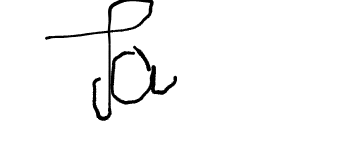
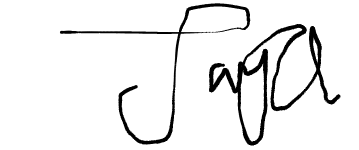
changes in remarks and update checklists

Changed region(s): [[0.1229, 0.0, 0.7067, 0.9867], [0.5838, 0.16, 0.9525, 0.9867]]

diff --git a/document/checklist/type/update_checklist.php b/document/checklist/type/update_checklist.php
@@ -81,6 +81,9 @@ $remarks = [];
 $client_name = $_POST['client_name'] ?? null;
 $client_signature = $_POST['client_signature'] ?? null;
 $checklist_no = $_POST['checklist_no'] ?? null;
+$recommendations = htmlspecialchars($_POST['recommendations'], ENT_QUOTES, 'UTF-8');
+
+
 
 
 if (!$client_name || !$client_signature || !$checklist_no) {
@@ -154,10 +157,10 @@ $checkQuery->store_result();
 
 if ($checkQuery->num_rows > 0) {
     // Update if a record exists
-    $stmt = $conn->prepare("UPDATE checklist_results SET result = ?, checklist_remark = ?, client_name = ?, client_signature = ? WHERE checklist_id = ?");
+    $stmt = $conn->prepare("UPDATE checklist_results SET result = ?, checklist_remark = ?, client_name = ?, client_signature = ?, recommendations = ? WHERE checklist_id = ?");
 } else {
     // Insert a new record if none exists
-    $stmt = $conn->prepare("INSERT INTO checklist_results (result, checklist_remark, client_name, client_signature, checklist_id) VALUES (?, ?, ?, ?, ?)");
+    $stmt = $conn->prepare("INSERT INTO checklist_results (result, checklist_remark, client_name, client_signature, recommendations, checklist_id) VALUES (?, ?, ?, ?, ?, ?)");
 }
 
 $checkQuery->close();
@@ -167,7 +170,7 @@ if ($stmt === false) {
 }
 
 // Bind parameters and execute the query
-$stmt->bind_param("ssssi", $combined_results, $combined_remarks, $client_name, $signature_filename, $checklist_no);
+$stmt->bind_param("sssssi", $combined_results, $combined_remarks, $client_name, $signature_filename, $recommendations, $checklist_no);
 
 if (!$stmt->execute()) {
     die("Execution failed: " . $stmt->error);

diff --git a/document/checklist/type/view/view-fetch.php b/document/checklist/type/view/view-fetch.php
@@ -16,7 +16,7 @@ if (empty($checklist_type) || empty($checklist_no)) {
 }
 
 // SQL query to fetch data from the 'checklist_information' table based on checklist_type and checklist_no
-$query = "SELECT * FROM checklist_information WHERE checklist_type = ? AND checklist_id = ?;";
+$query = "SELECT *, project_id FROM checklist_information WHERE checklist_type = ? AND checklist_id = ?;";
 $stmt = $conn->prepare($query);
 $stmt->bind_param("si", $checklist_type, $checklist_no); // "s" for string, "i" for integer
 $stmt->execute();
@@ -24,6 +24,7 @@ $result = $stmt->get_result();
 
 if ($result && $result->num_rows > 0) {
     $row = $result->fetch_assoc();
+    $project_id = $row['project_id']; // Fetch project_id
 } else {
     echo "No record found for the specified checklist type and checklist ID!";
     $row = []; // Initialize as an empty array if no record found
@@ -37,10 +38,10 @@ $db_remark = '';
 
 if ($checklist_no) {
     // Fetch checklist data
-    $stmt = $conn->prepare("SELECT result, checklist_remark FROM checklist_results WHERE checklist_id = ?");
+    $stmt = $conn->prepare("SELECT result, checklist_remark, client_name FROM checklist_results WHERE checklist_id = ?");
     $stmt->bind_param("i", $checklist_no);
     $stmt->execute();
-    $stmt->bind_result($db_result, $db_remark);
+    $stmt->bind_result($db_result, $db_remark, $client_name);
     $stmt->fetch();
     $stmt->close();
 

diff --git a/document/checklist/type/view/storage-retrieval.php b/document/checklist/type/view/storage-retrieval.php
@@ -1773,7 +1773,11 @@ sec.2.1.3(c)
                 </strong>
             </td>
             <th style="width: 25%;">CLIENT’S REP. NAME:</th>
-            <td style="width: 25%;"></td>
+            <td style="width: 25%;">
+
+            <?php echo htmlspecialchars($client_name); ?>
+            
+            </td>
         </tr>
         <tr>
             <th>SIGNATURE & DATE:</th>
@@ -1804,7 +1808,8 @@ sec.2.1.3(c)
                 ?>
             </td>
             <th>SIGNATURE & DATE:</th>
-            <td><input name="remarks"></td>
+            <td> <img src="../../../uploads/<?php echo htmlspecialchars($project_id); ?>.png" height="50px" width="100px" alt="Client Signature">
+            </td>
         </tr>
     </table>
 </div>

diff --git a/document/checklist/type/storage-retrieval.php b/document/checklist/type/storage-retrieval.php
@@ -1510,9 +1510,10 @@ sec.2.1.3(c)
                 <th colspan="3" style="text-align: center;">REMARKS / RECOMMENDATIONS: </td>
 				</tr>
             <tr>
-                <td style="height: 120px;" colspan="3">
-
-                <?php echo htmlspecialchars($row['remarks']); ?>
+            <td style="height: 120px;" colspan="3">
+                <textarea style="width: 100%; height: 100%; box-sizing: border-box;" name="recommendations">
+                    
+                </textarea>
             </td>
                 
             </tr>
